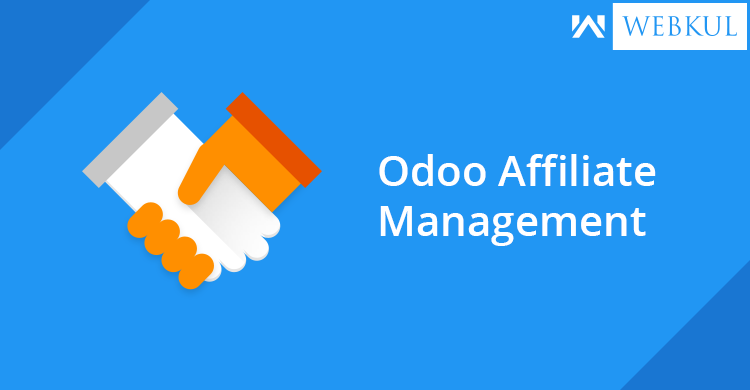
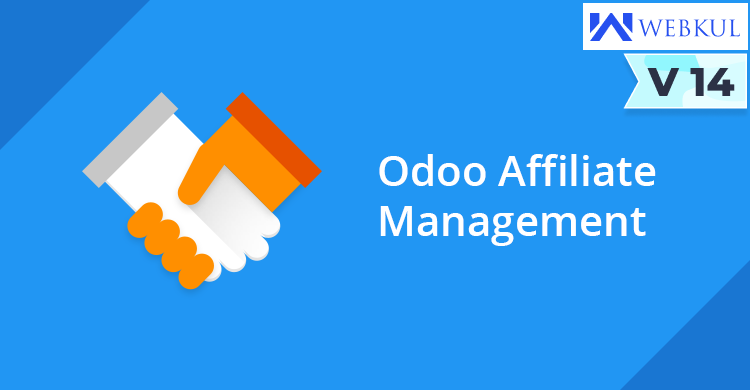
[UPD][affiliate_management] Update to Odoo v14

diff --git a/affiliate_management/static/description/index.html b/affiliate_management/static/description/index.html
@@ -413,33 +413,50 @@
               </div>
       </div>
  </section>
+ <br>
+ <br>
+ <br>
 
- <section class="oe_container oe_dark">
-     <div class='row'>
-         <div class="col-md-12">
-             <h2 class='oe_slogan'>Complimentary Support</h2>
-             <p style="text-align: center;">
-             You will get 90 days free support for any doubt, queries, and bug fixing (excluding data recovery) or any type of issue related to this module.
-             </p>
-         </div>
-     </div>
-     <div class="row oe_spaced">
-         <div class="col-md-12">
-             <h2 class="oe_slogan">Help and Support</h2>
-         </div>
-         <div class="col-md-12 oe_slogan oe_spaced">
-             <img src="icon-help.png">
-             <span ><a onMouseOver="this.style.color='#AC1EE0'"
-    onMouseOut="this.style.color='#7c7bad'" style="color:#7c7bad;" target="_blank" href="http://support.webkul.com/en/customer/create-ticket/">Help</a></span>
-             <img src="icon-support.png">
-             <span ><a onMouseOver="this.style.color='#AC1EE0'"
-    onMouseOut="this.style.color='#7c7bad'" style="color:#7c7bad;" target="_blank" href="http://support.webkul.com/en/customer/create-ticket/">Support</a></span>
-             <img src="icon-features.png">
-             <span ><a onMouseOver="this.style.color='#AC1EE0'"
-    onMouseOut="this.style.color='#7c7bad'" style="color:#7c7bad;" target="_blank" href="http://support.webkul.com/en/customer/create-ticket/">Request new Features</a></span>
-         </div>
-     </div>
- </section>
+
+ <section class="mb-5" id="webkul_support">
+    <div class="row">
+        <div class="col-12">
+            <h3 class="text-center">Help and Support</h3>
+            <p class="mb-2 text-center">Get Immediate support for any of your query</p>
+        </div>
+        <div class="col-12">
+            <p class="text-center px-5">You will get 90 days free support for any doubt, queries, and bug fixing (excluding data recovery) or any type of issue related to this module.</p>
+        </div>
+        <div class="mx-auto col-lg-9 mb-4 oe_screenshot">
+            <div class="row align-items-center justify-content-center mx-0">
+                <div class="col-xl-2 col-lg-2 col-md-2 sol-sm-2 text-center">
+                    <img src="//apps.odoocdn.com/apps/assets/13.0/odoo_marketplace/mail.png?77fdd07" alt="mail" class="img img-fluid">
+                </div>
+                <div class="col-xl-7 col-lg-10 col-md-10 col-sm-10 pl-0 pr-2">
+                    <p class="my-2" style="font-weight:bold;color:#555555;">Write a mail to us:</p>
+                    <a style="font-size:18px;" href="mailto:support@webkul.com">support@webkul.com</a>
+                    <p class="my-2" style="font-weight: normal;font-size: 14px;color:#777777;">Any queries or want any extra features? Just drop a mail to our support.</p>
+                </div>
+                <div class="col-xl-3 col-lg-4 text-center">
+                    <a href="mailto:support@webkul.com" style="padding:10px 22px;background-color:#2335D7;font-size:14px;color:#ffffff;"><i class="fa fa-pencil-square-o" style="color:white; margin-right:4px"></i>Write To US</a>
+                </div>
+            </div>
+        </div>
+        <div class="mx-auto col-lg-9 oe_screenshot">
+            <div class="row align-items-center justify-content-center mx-0">
+                <div class="col-xl-2 col-lg-2 col-md-2 text-center">
+                    <img src="//apps.odoocdn.com/apps/assets/13.0/odoo_marketplace/support-icon.png?77fdd07" alt="support-icon" class="img img-fluid">
+                </div>
+                <div class="col-xl-10 col-lg-10 col-md-10 pl-0">
+                    <p class="my-2" style="font-weight:bold;color:#555555;">Get in touch with our Expert:</p>
+                    <a class="text-break" style="font-size:18px;" href="mailto:https://webkul.uvdesk.com/en/customer/create-ticket/">https://webkul.uvdesk.com/en/customer/create-ticket/</a>
+                    <p class="my-2" style="font-weight:normal;font-size:14px;color:#777777;">Any technical queries, want extra features, or anything else, our team is ready to answer all your questions, just raise a support ticket.</p>
+                </div>
+            </div>
+        </div>
+    </div>
+</section>
+
 
 
 <section class="oe_container">

diff --git a/affiliate_management/controllers/main.py b/affiliate_management/controllers/main.py
@@ -53,40 +53,40 @@ class WebsiteSale(WebsiteSale):
         '/shop/page/<int:page>',
         '/shop/category/<model("product.public.category"):category>',
         '/shop/category/<model("product.public.category"):category>/page/<int:page>'
-    ], type='http', auth="public", website=True)
+    ], type='http', auth="public", website=True,sitemap=WebsiteSale.sitemap_shop)
     def shop(self, page=0, category=None, search='', ppg=False, **post):
-      enable_ppc = request.env['res.config.settings'].sudo().website_constant().get('enable_ppc')
-      expire = False
-      result = super(WebsiteSale,self).shop(page=page, category=category, search=search, ppg=ppg, **post)
-      aff_key = request.httprequest.args.get('aff_key')
-      if category and aff_key:
-        expire = self.calc_cookie_expire_date()
-        path = request.httprequest.full_path
-        partner_id = request.env['res.partner'].sudo().search([('res_affiliate_key','=',aff_key),('is_affiliate','=',True)])
-        vals = self.create_affiliate_visit(aff_key,partner_id,category)
-        vals.update({'affiliate_type':'category'})
-        if ( len(partner_id) == 1):
-          affiliate_visit = self.create_aff_visit_entry(vals) if enable_ppc else False
-          result.set_cookie(key='affkey_%s'%(aff_key), value='category_%s'%(category.id),expires=expire)
+        enable_ppc = request.env['res.config.settings'].sudo().website_constant().get('enable_ppc')
+        expire = False
+        result = super(WebsiteSale,self).shop(page=page, category=category, search=search, ppg=ppg, **post)
+        aff_key = request.httprequest.args.get('aff_key')
+        if category and aff_key:
+            expire = self.calc_cookie_expire_date()
+            path = request.httprequest.full_path
+            partner_id = request.env['res.partner'].sudo().search([('res_affiliate_key','=',aff_key),('is_affiliate','=',True)])
+            vals = self.create_affiliate_visit(aff_key,partner_id,category)
+            vals.update({'affiliate_type':'category'})
+            if ( len(partner_id) == 1):
+                affiliate_visit = self.create_aff_visit_entry(vals) if enable_ppc else False
+                result.set_cookie(key='affkey_%s'%(aff_key), value='category_%s'%(category.id),expires=expire)
+            else:
+                _logger.info("=====affiliate_visit not created by category===========")
         else:
-         _logger.info("=====affiliate_visit not created by category===========")
-      else:
-        if aff_key:
-          expire = self.calc_cookie_expire_date()
-          partner_id = request.env['res.partner'].sudo().search([('res_affiliate_key','=',aff_key),('is_affiliate','=',True)])
-          if partner_id:
-            result.set_cookie(key='affkey_%s'%(aff_key), value='shop',expires=expire)
-      return result
+            if aff_key:
+                expire = self.calc_cookie_expire_date()
+                partner_id = request.env['res.partner'].sudo().search([('res_affiliate_key','=',aff_key),('is_affiliate','=',True)])
+                if partner_id:
+                    result.set_cookie(key='affkey_%s'%(aff_key), value='shop',expires=expire)
+        return result
 
 
     @http.route(['/shop/product/<model("product.template"):product>'], type='http', auth="public", website=True)
-    def product(self, product, category='', search='', **kwargs):
+    def old_product(self, product, category='', search='', **kwargs):
       _logger.info("=====product page=========")
       _logger.info("=====product page aff_key==%r=========",request.httprequest.args)
       enable_ppc = request.env['res.config.settings'].sudo().website_constant().get('enable_ppc')
       expire = self.calc_cookie_expire_date()
 
-      result = super(WebsiteSale,self).product(product=product, category=category, search=search, **kwargs)
+      result = super(WebsiteSale,self).old_product(product=product, category=category, search=search, **kwargs)
       if request.httprequest.args.get('aff_key'):
         # path is the complete url with url = xxxx?aff_key=XXXXXXXX
         path = request.httprequest.full_path

diff --git a/affiliate_management/models/affiliate_visit.py b/affiliate_management/models/affiliate_visit.py
@@ -180,6 +180,8 @@ class AffiliateVisit(models.Model):
         invoice_ids =[]
         for v in aff_vst:
             vst = self.browse([v])
+             # [[0, 'virtual_754', {'sequence': 10, 'product_id': 36, 'name': '[Deposit] Deposit', 'account_id': 21, 'analytic_account_id': False, 'analytic_tag_ids': [[6, False, []]],
+             #  'quantity': 1, 'product_uom_id': 1, 'price_unit': 150, 'discount': 0, 'tax_ids': [[6, False, [1]]]
 
             if vst.state == 'confirm':
                 # ********** creating invoice line *********************
@@ -196,17 +198,17 @@ class AffiliateVisit(models.Model):
                             'name':"Type "+vst.affiliate_type+" on Pay Per Click ",
                             'price_unit':vst.commission_amt,
                             'quantity':1,
-                            # 'move_id':inv_id.id,
                             # 'product_id':ConfigValues.get('aff_product_id'),
                         }
 
                 invoice_dict = [
-                                { 'invoice_line_ids': [(0, 0, dic)],
-                                   'type': 'out_invoice',
+                                { 
+                                   'invoice_line_ids': [(0, 0, dic)],
+                                   'move_type': 'out_invoice',
                                    'partner_id':vst.affiliate_partner_id.id,
                                    'invoice_date':fields.Datetime.now().date()
                                 }]
-                line = self.env['account.move'].with_context(default_type='out_invoice').create(invoice_dict)
+                line = self.env['account.move'].create(invoice_dict)
                 vst.state = 'invoice'
                 vst.act_invoice_id = line.id
                 invoice_ids.append(line)
@@ -275,7 +277,7 @@ class AffiliateVisit(models.Model):
                             _logger.info('================advance_pps_type_calc===============')
                             if commission and commission_type:
                                 _logger.info("---22----adv_commision_amount--%r--commision_value-%r--------commision_value_type-%r------",adv_commision_amount,commission,commission_type)
-                                
+
                             else:
                                 response={
                                     'is_error':1,

diff --git a/affiliate_management/models/account_invoice_inherit.py b/affiliate_management/models/account_invoice_inherit.py
@@ -32,7 +32,7 @@ class AccountInvoiceInherit(models.Model):
 #         result = super(AccountInvoiceInherit,self).write(vals)
 #         if self.ref:
 #             move_id = self.env["account.move"].sudo().search([("name","=",self.ref)])
-#             if self.invoice_payment_state == "paid":
+#             if self.payment_state == "paid":
 
 #                 if move_id.aff_visit_id:
 #                     move_id.aff_visit_id.write({"state":"paid"})
@@ -52,7 +52,7 @@ class AccountPaymentInherit(models.Model):
         result = super(AccountPaymentInherit,self).post()
         if result and self.invoice_ids:
             move_id = self.invoice_ids[0]
-            if move_id.invoice_payment_state == "paid" and move_id.aff_visit_id and move_id.aff_visit_id.state != "paid":
+            if move_id.payment_state == "paid" and move_id.aff_visit_id and move_id.aff_visit_id.state != "paid":
                 move_id.aff_visit_id.write({"state":"paid"})
 
         return result

diff --git a/affiliate_management/controllers/affiliate_website.py b/affiliate_management/controllers/affiliate_website.py
@@ -283,7 +283,7 @@ class website_affiliate(Home):
         values={}
         partner = request.env.user.partner_id
         invoices = request.env['account.move']
-        domain = [('partner_id','=',partner.id),('invoice_payment_state','=','paid'),('ref','=',None)]
+        domain = [('partner_id','=',partner.id),('payment_state','=','paid'),('ref','=',None)]
         if date_begin and date_end:
             domain += [('create_date', '>', date_begin), ('create_date', '<=', date_end)]
         invoice_count = invoices.search_count(domain)
@@ -421,6 +421,7 @@ class website_affiliate(Home):
                 'base_url': request.env['ir.config_parameter'].sudo().get_param('web.base.url')
 
                 })
+        _logger.info("=======values====%r",values)
         return http.request.render('affiliate_management.product_link',values)
 
 

diff --git a/affiliate_management/models/affiliate_config_setting.py b/affiliate_management/models/affiliate_config_setting.py
@@ -49,6 +49,8 @@ class AffiliateConfiguration(models.TransientModel):
     cookie_expire_period = fields.Selection([('hours','Hours'),('days','Days'),('months','Months')],required=True,default='days')
     payment_day = fields.Integer(string="Payment day",required=True, default=7)
     minimum_amt = fields.Integer(string="Minimum Payout Balance",required=True, default=0)
+    currency_id = fields.Many2one('res.currency', 'Currency', required=True,
+        default=lambda self: self.env.user.company_id.currency_id.id)
     aff_product_id = fields.Many2one('product.product', 'Product',help="Product used in Invoicing")
     enable_signup = fields.Boolean(string= "Enable Sign Up", default=True  )
     enable_login = fields.Boolean(string= "Enable Log In", default=True  )

diff --git a/affiliate_management/__manifest__.py b/affiliate_management/__manifest__.py
@@ -22,7 +22,7 @@
   "author"               :  "Webkul Software Pvt. Ltd.",
   "license"              :  "Other proprietary",
   "maintainer"           :  "Saurabh Gupta",
-  "website"              :  "https://webkul.com/blog/odoo-affiliate-management",
+  "website"              :  "https://store.webkul.com/Odoo-Affiliate-Management.html",
   "description"          :  """Odoo Affiliate Extension for Affiliate Management""",
   "live_test_url"        :  "http://odoodemo.webkul.com/?module=affiliate_management&lifetime=90&lout=1&custom_url=/",
   "depends"              :  [
@@ -69,5 +69,5 @@
   "application"          :  True,
   "installable"          :  True,
   "price"                :  99,
-  "currency"             :  "EUR",
+  "currency"             :  "USD",
 }

diff --git a/affiliate_management/models/affiliate_request.py b/affiliate_management/models/affiliate_request.py
@@ -156,8 +156,10 @@ class AffiliateRequest(models.Model):
     def send_joining_mail(self,aff_request):
         if aff_request.signup_valid:
             template_id = self.env.ref('affiliate_management.join_affiliate_email')
-            res = template_id.send_mail(aff_request.id,force_send=True)
-
+            user = self.env.user
+            email_values = {"email_from":user.partner_id.company_id.email}
+            res = template_id.send_mail(aff_request.id,force_send=True,email_values=email_values)
+            
 
     def regenerate_token(self):
         self.signup_token = self.random_token()
